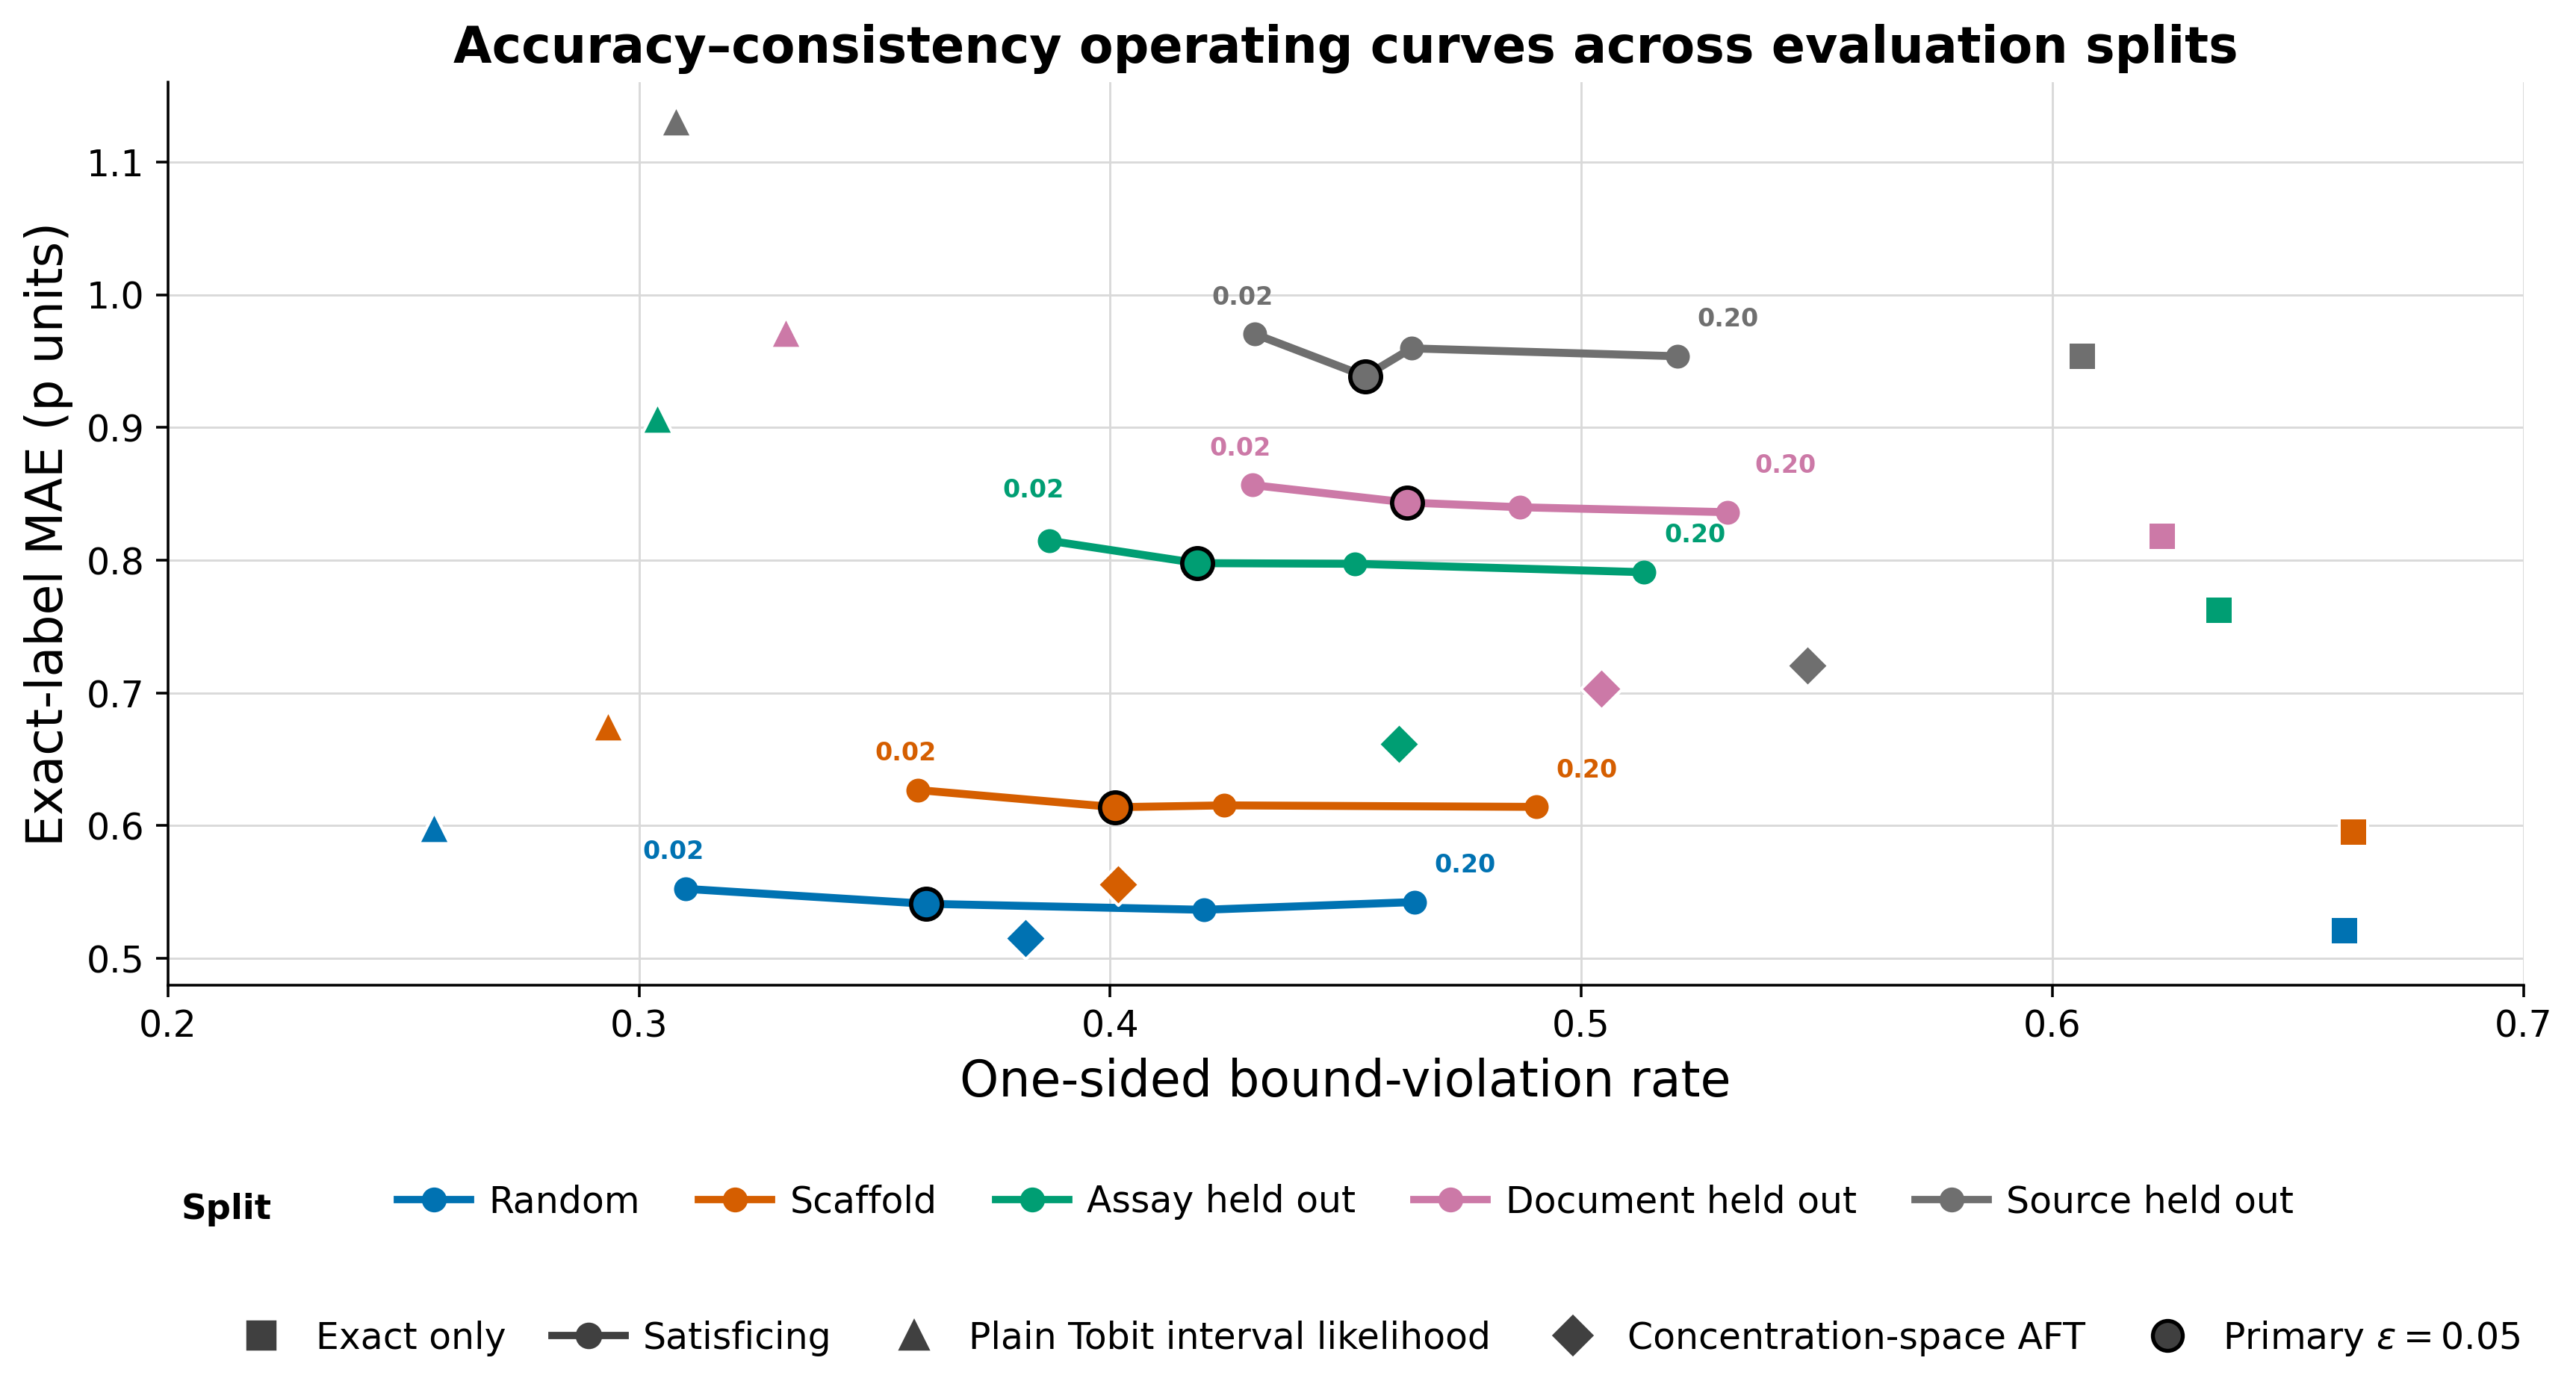
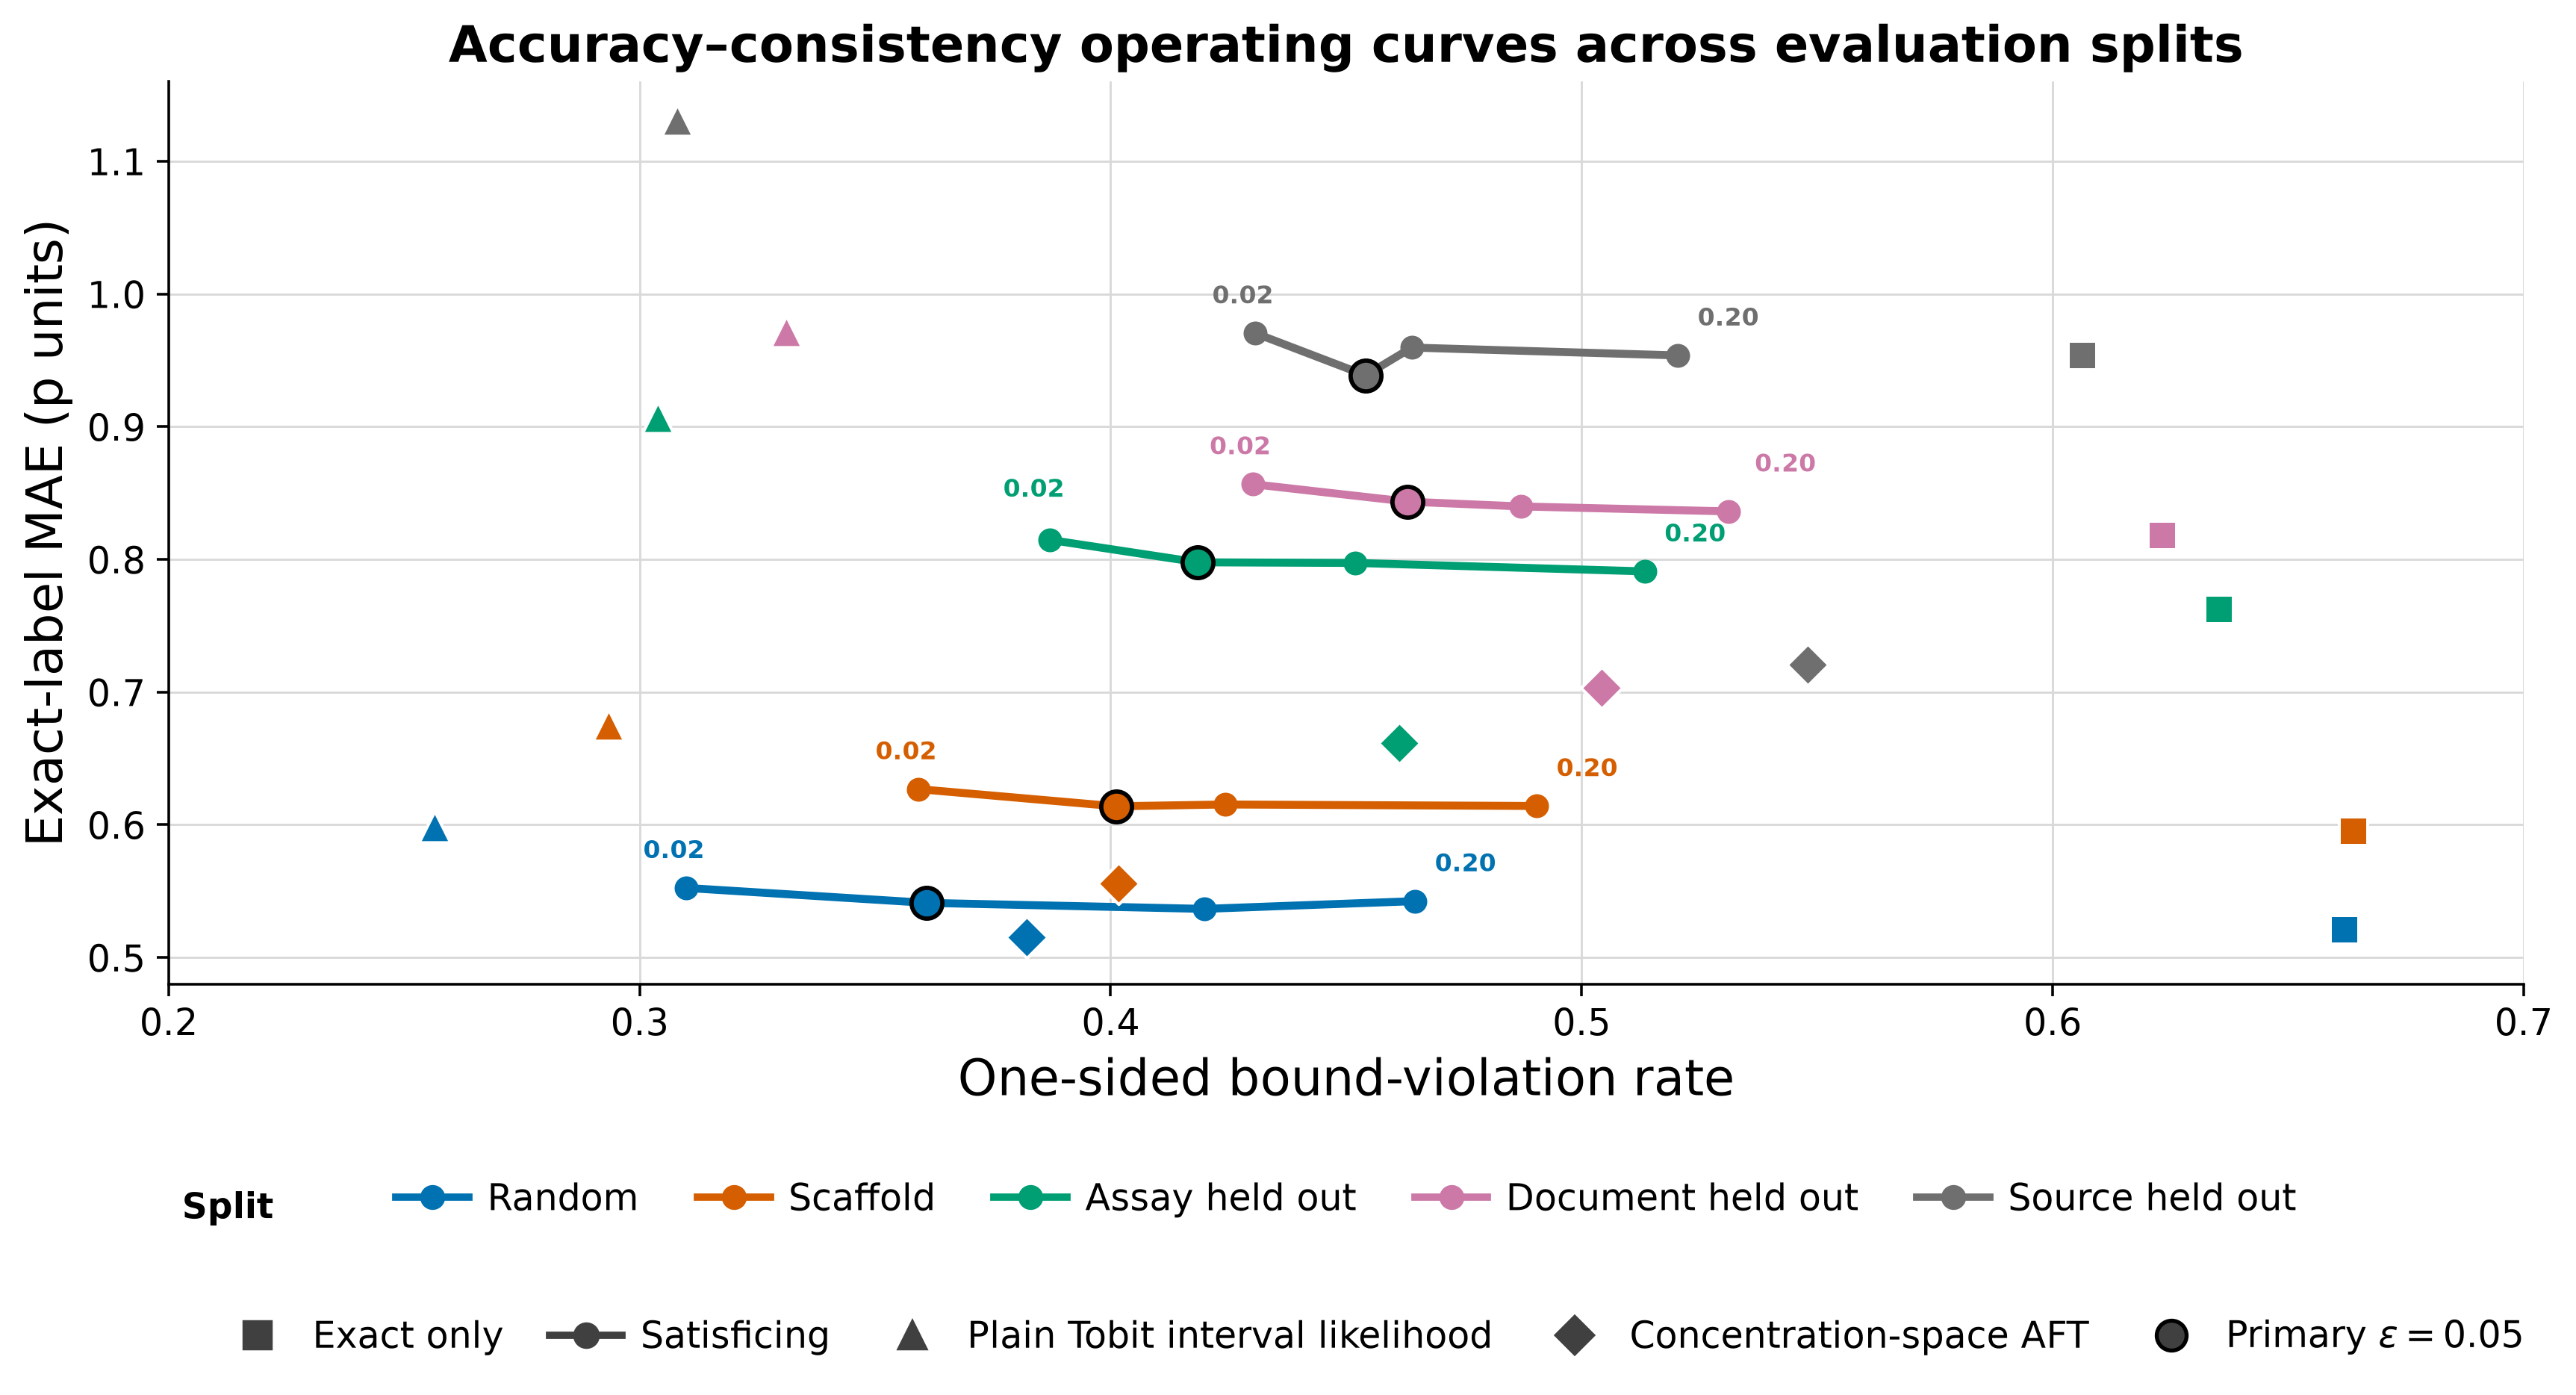
Update CensorADMET publication card

diff --git a/index.html b/index.html
@@ -151,17 +151,18 @@
             </div>
           </article>
           <article class="feature-item">
-            <a class="thumb-link" href="https://github.com/eva-mitropoulou/censorADMET" aria-label="CensorADMET publication repository">
+            <a class="thumb-link" href="https://doi.org/10.5281/zenodo.21417709" aria-label="CensorADMET archived reproducibility package">
               <img src="assets/figures/censoradmet_operating_curve.png" alt="CensorADMET accuracy-versus-consistency operating curves">
             </a>
             <div>
-              <p class="domain-label">Cheminformatics · ADMET</p>
-              <h3><a href="https://github.com/eva-mitropoulou/censorADMET">CensorADMET: Constraint-Satisficing Regression for Censored ADMET Prediction with a Controllable Accuracy-versus-Consistency Trade-off</a></h3>
-              <p>Mitropoulou, E.; Giannopoulos, D. ChemRxiv, 2026.</p>
-              <p>CensorADMET preserves inequality-labelled ADMET measurements as interval constraints and evaluates how models trade exact-value accuracy against consistency with known assay bounds under chemical and provenance shift.</p>
-              <p class="compact-metrics">8 CYP, hERG and ABCB1 endpoints · 5 shift families · explicit probability-deficit control</p>
+              <p class="domain-label">Cheminformatics · Censored ADMET regression</p>
+              <h3><a href="https://doi.org/10.5281/zenodo.21417709">CensorADMET: Controllable Constraint-Satisficing Regression for Censored ADMET Data</a></h3>
+              <p>Mitropoulou, E.; Giannopoulos, D. Manuscript under review, 2026.</p>
+              <p>CensorADMET learns from upper- and lower-bound ADMET measurements with a separately specified aggregate probability-deficit budget. It makes the trade-off between exact-label accuracy and consistency with assay bounds explicit and auditable.</p>
+              <p class="compact-metrics">10 aggregated and 8 measurement-level endpoint datasets · chemical and provenance-aware shifts · fixed reproducibility release</p>
               <div class="inline-links">
-                <a href="https://github.com/eva-mitropoulou/censorADMET">Publication repository</a>
+                <a href="https://doi.org/10.5281/zenodo.21417709">Zenodo archive</a>
+                <a href="https://github.com/eva-mitropoulou/censorADMET/releases/tag/v1.0.0-paper">Reproducibility package</a>
               </div>
             </div>
           </article>